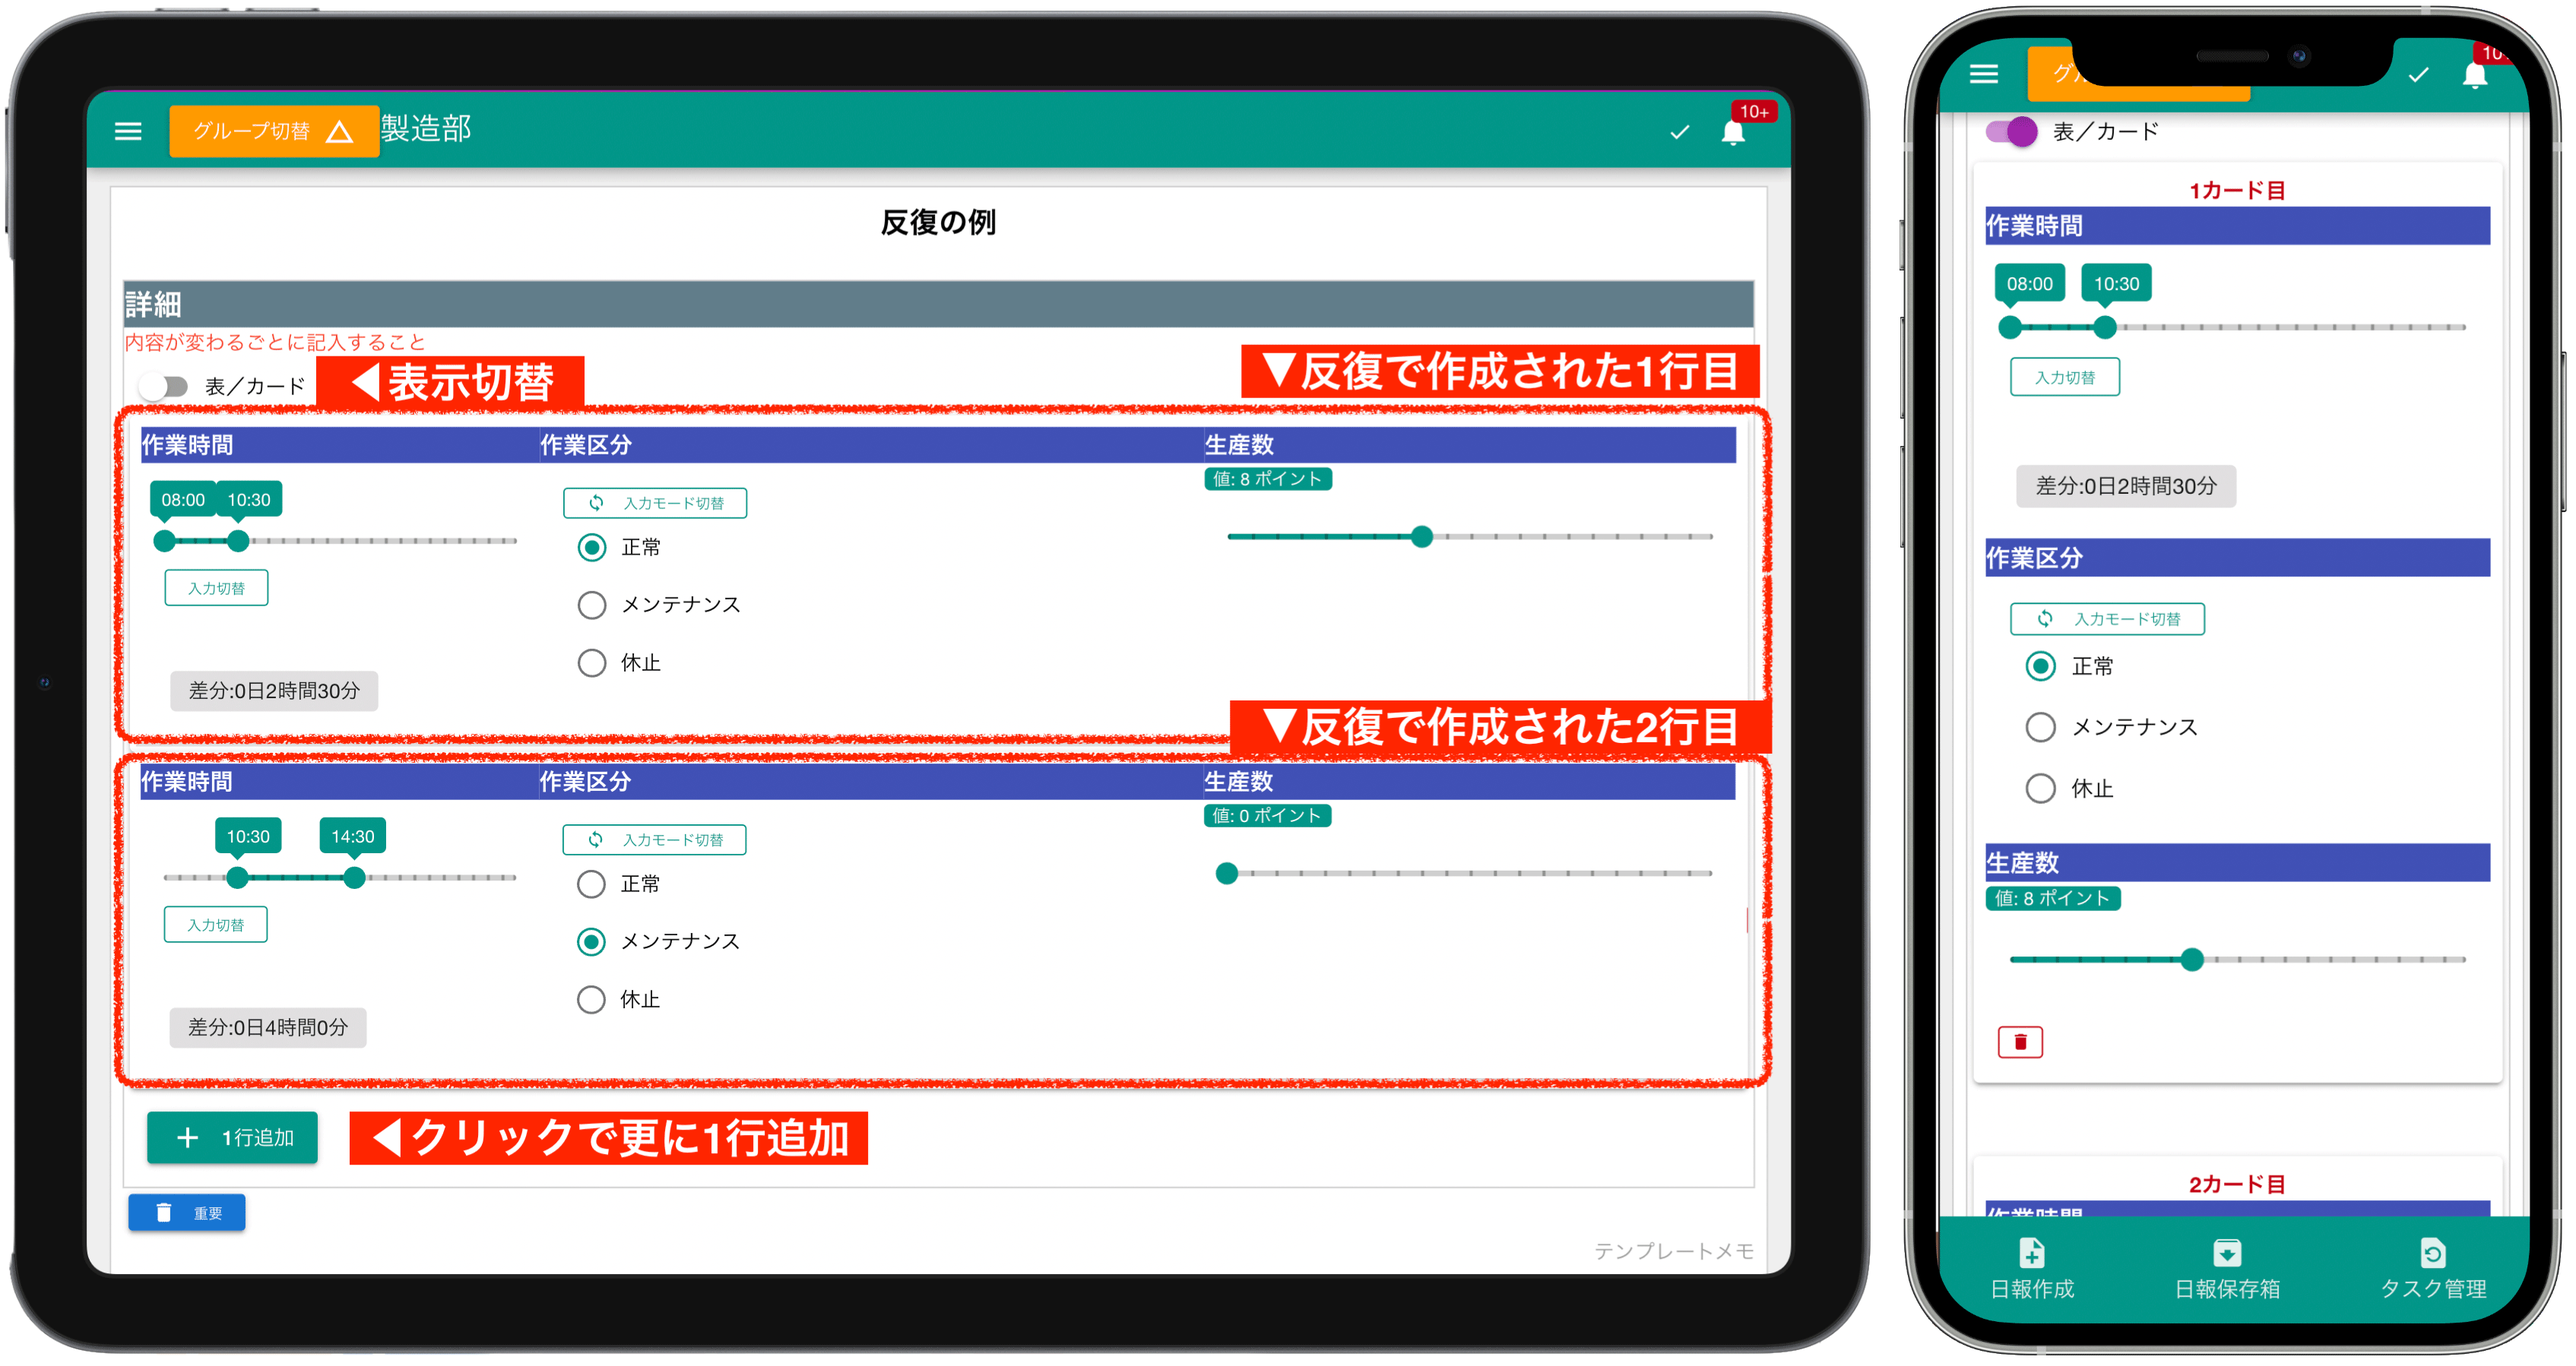
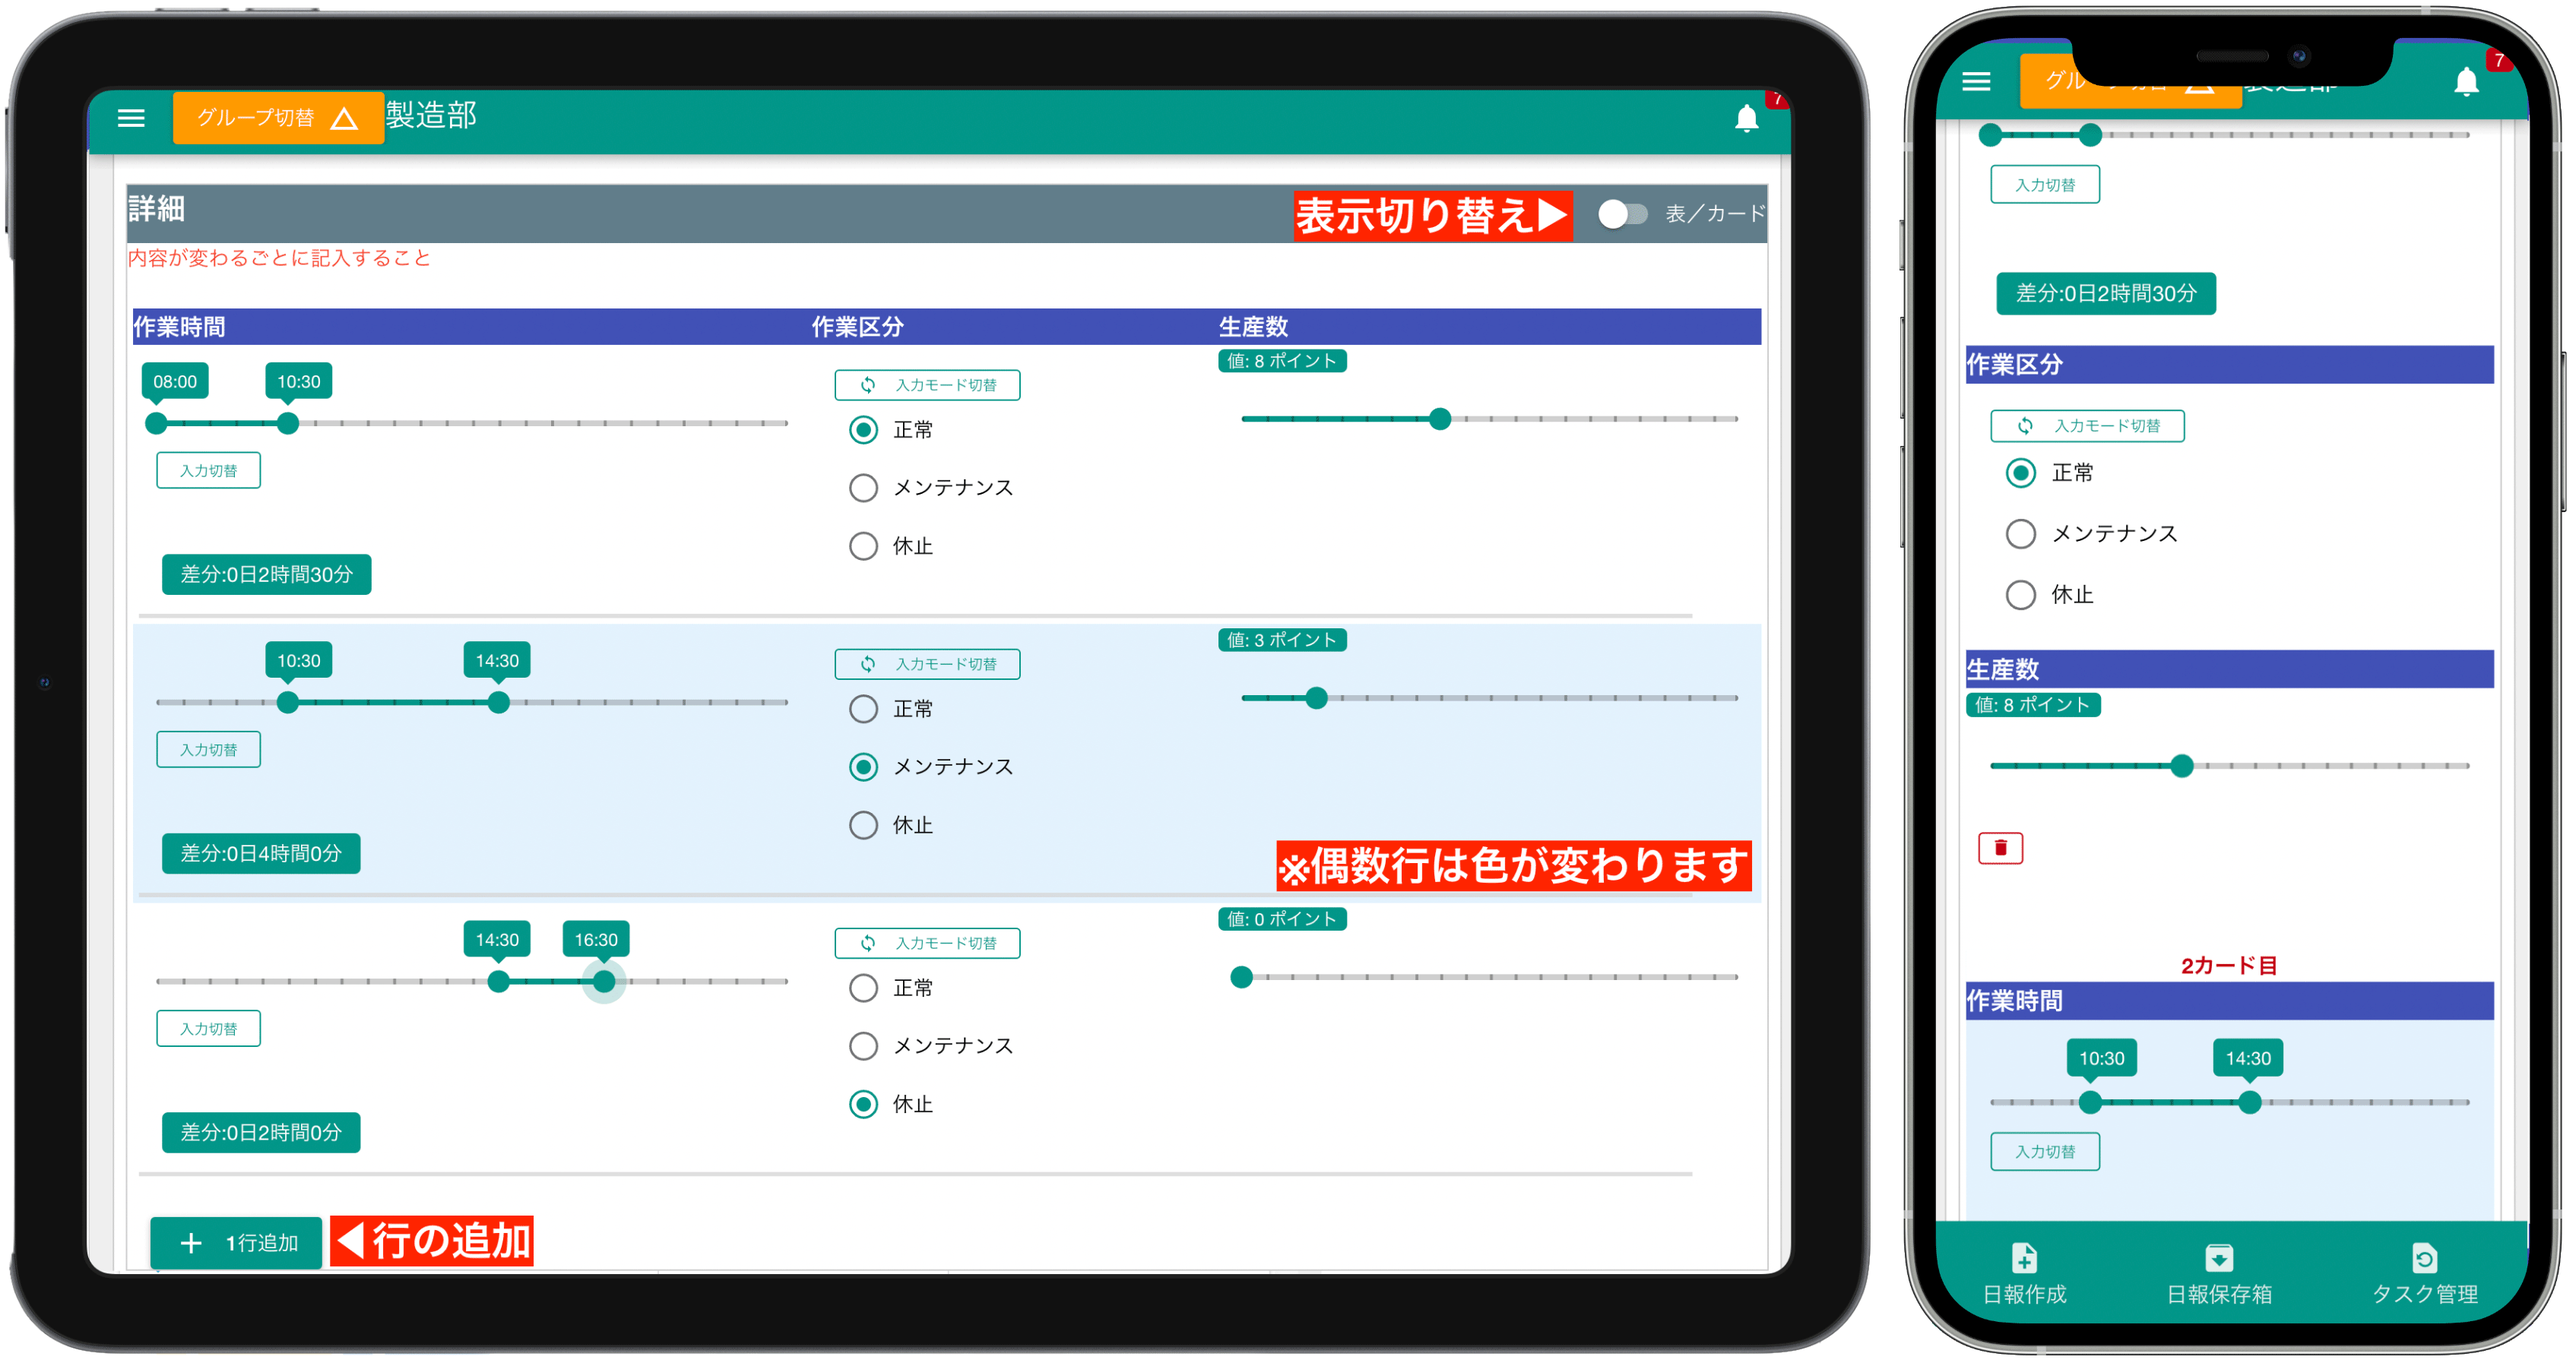
valiable

diff --git a/content/org/groupsetting/template/array/index.md b/content/org/groupsetting/template/array/index.md
@@ -71,7 +71,9 @@ weight = 400
 
 {{<imgproc post.png "反復入力フォームの日報を受信したときの画面イメージ" />}}
 
-反復の項目は作成された行数だけ表示されます。
+反復の項目は作成された行数だけ表示されます。偶数行目のデータは見分けやすいように薄い水色で塗られて表示されます。
+表示形式は表のような形式（上画像でいうタブレット側）と、カード式（上画像でいうスマホ側）の2種類が有り、表示形式の初期値はご利用の端末の画面幅によって自動で設定されます。
+表示の切り替えはいつでも行うことが可能です。
 
 ## データ活用編
 

diff --git a/content/org/groupsetting/template/text/index.md b/content/org/groupsetting/template/text/index.md
@@ -8,7 +8,7 @@ toc = true
 weight = 100
 +++
 
-{{<imgproc text.png "テキスト入力フォームを含んだ日報テンプレートの例" />}}
+{{<imgproc input.png "テキスト入力フォームを含んだ日報の入力画面。タブレットとスマホで比較" />}}
 
 テキスト入力フォームは日報やチェックシート上にシンプルな文字の入力フォームを追加できるパーツです。
 PCからはキーボードを使って入力し、スマートフォンやタブレットでは液晶のキーボードを使って文字の入力ができます。
